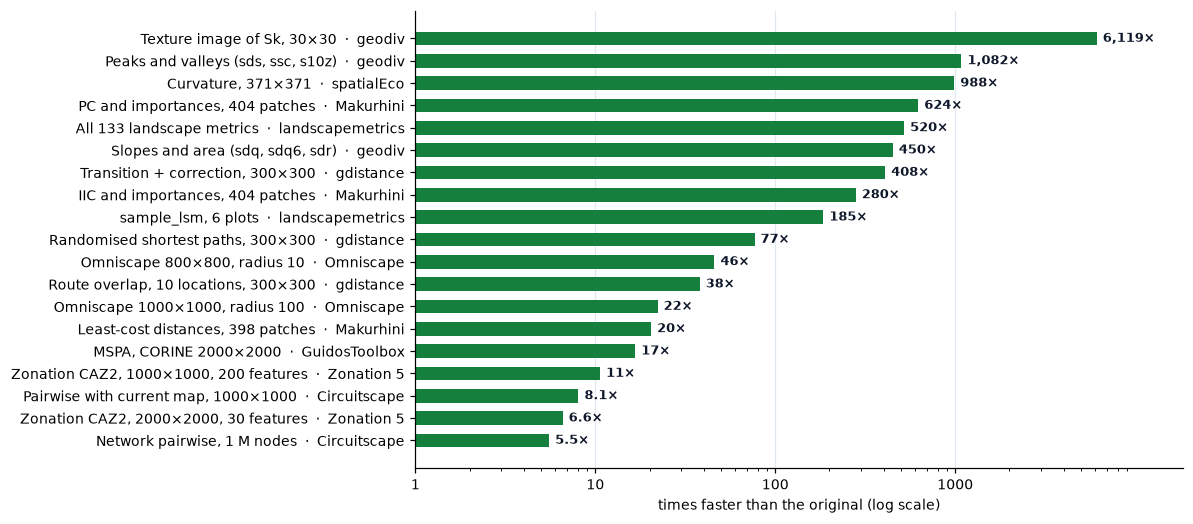
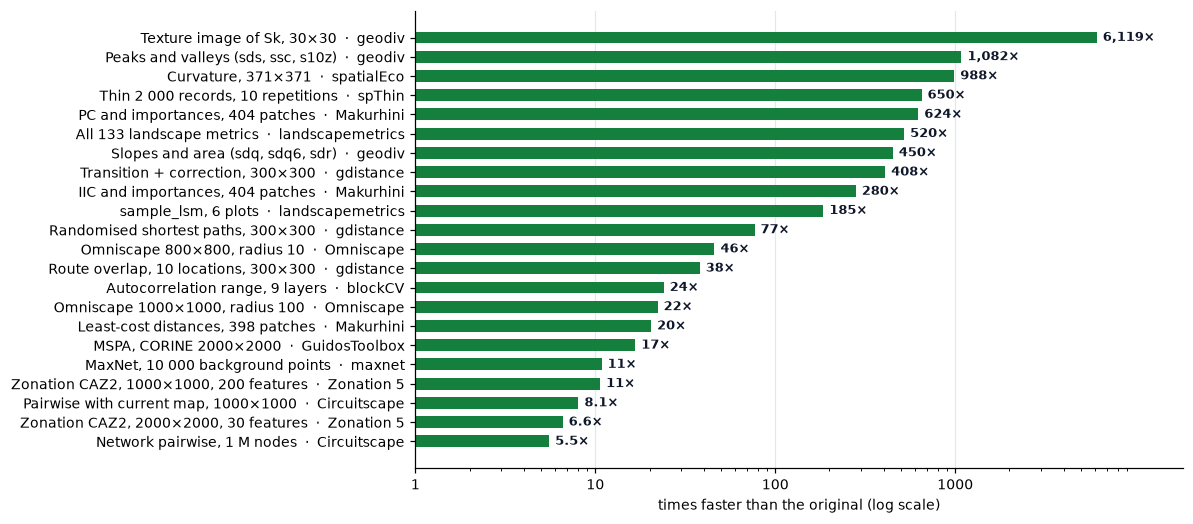
docs(benchmarks): species distributions against the R packages
tools/benchmark_sdm.py + tools/sdm_benchmark.R time 11 tasks against
CoordinateCleaner, spThin, usdm, dismo, blockCV, predicts, ecospat and
maxnet (6-650x); accuracy rows and the corrected reference errors on the
benchmarks page; three tasks in the speed-up figure.

Changed region(s): [[0.0, 0.0611, 0.9614, 0.855]]

diff --git a/tools/benchmark_sdm.py b/tools/benchmark_sdm.py
@@ -1,0 +1,157 @@
+# SPDX-License-Identifier: GPL-3.0-or-later
+"""Time ls.sdm against the R packages it reproduces (the tasks of tools/sdm_benchmark.R).
+
+Usage::
+
+    python tools/benchmark_sdm.py [--reps N] [--cpus 0-11] [--no-r]
+
+Writes the inputs (synthetic records over the example climate, the Bradypus
+presences with 10 000 background points, predictions to evaluate) to
+``build/benchmark_sdm`` and prints a Markdown table: each task's best time in
+R and in Landschaft (default threads, best of ``reps``). Needs Rscript and the
+library of ``tools/make_reference_sdm.py``.
+"""
+
+from __future__ import annotations
+
+import argparse
+import subprocess
+import sys
+import time
+import warnings
+from pathlib import Path
+
+import numpy as np
+import pandas as pd
+
+ROOT = Path(__file__).resolve().parents[1]
+sys.path.insert(0, str(ROOT / "tests"))
+sys.path.insert(0, str(ROOT / "tools"))
+
+import landschaft as ls  # noqa: E402
+import lsm_reference  # noqa: E402
+import make_reference_sdm  # noqa: E402
+
+LABELS = {
+    "clean records": ("Clean 5 000 records: capitals, centroids, equal, GBIF, institutions, outliers, zeros",
+                      "CoordinateCleaner `clean_coordinates`"),
+    "thin": ("Thin 2 000 records at 10 km, 10 repetitions", "spThin `thin.algorithm`"),
+    "vif selection": ("VIF selection, 9 layers", "usdm `vifstep`"),
+    "background": ("10 000 background points", "dismo `randomPoints`"),
+    "spatial blocks": ("Hexagonal blocks of 500 km, 10 116 points, 100 iterations", "blockCV `cv_spatial`"),
+    "spatial clusters": ("k-means folds, 10 116 points, 25 starts", "blockCV `cv_cluster`"),
+    "autocorrelation range": ("Autocorrelation range, 9 layers, 5 000 cells each", "blockCV `cv_spatial_autocor`"),
+    "evaluate": ("Evaluate 1 000 presences against 10 000 background points", "predicts `pa_evaluate`"),
+    "boyce": ("Boyce index, the same predictions", "ecospat `ecospat.boyce`"),
+    "mess": ("MESS, 9 layers, 10 116 reference points", "predicts `mess`"),
+    "maxnet": ("MaxNet, 116 presences and 10 000 background points, 9 predictors", "maxnet `maxnet`"),
+}
+
+
+def inputs(work: Path):
+    """Write the inputs for R and return them for Landschaft."""
+    rng = np.random.default_rng(1)
+    env = ls.load_raster(ls.sdm.example_data("bioclim"))
+    occ = ls.load_table(ls.sdm.example_data("bradypus"))
+    cells = np.flatnonzero(~np.isnan(env.values[0]).ravel())
+    from landschaft.sdm._background import _cell_centres
+
+    pick = rng.choice(cells, 5000)
+    x, y = _cell_centres(env, pick)
+    records = pd.DataFrame({"species": rng.choice([f"sp{i}" for i in range(20)], 5000),
+                            "decimalLongitude": x + rng.uniform(-0.25, 0.25, 5000),
+                            "decimalLatitude": y + rng.uniform(-0.25, 0.25, 5000)})
+    centres = rng.uniform([-70, -25], [-45, 0], (40, 2))
+    t = centres[rng.integers(0, 40, 2000)] + rng.normal(0, 0.5, (2000, 2))
+    thin = pd.DataFrame({"lon": t[:, 0], "lat": t[:, 1]})
+    bg = ls.sdm.background(env, 10_000, occ=occ, seed=1)
+    data = ls.sdm.dataset(occ, bg, env)
+    pts = pd.DataFrame({"lon": data.coords.geometry.x, "lat": data.coords.geometry.y, "occ": data.y.astype(float)})
+    p = np.round(rng.beta(4, 1.5, 1000), 4)
+    a = np.round(rng.uniform(0, 1, 10_000), 4)
+    ev = pd.DataFrame({"pred": np.concatenate([p, a]), "y": [1] * 1000 + [0] * 10_000})
+    mx = data.X.copy()
+    mx["y"] = data.y
+    work.mkdir(parents=True, exist_ok=True)
+    for name, df in [("records", records), ("thin", thin), ("points", pts), ("evaluation", ev), ("maxnet", mx)]:
+        df.to_csv(work / f"{name}.csv", index=False, float_format="%.17g")
+    return env, occ, records, thin, data, p, a
+
+
+def tasks(env, occ, records, thin, data, p, a) -> dict:
+    sdm = ls.sdm
+    pts = data.coords.copy()
+    pts["occ"] = data.y.astype(float)
+    off = dict(seas=False, urban=False, countries=False, duplicates=False, aohi=False)
+    return {
+        "clean records": lambda: sdm.clean_occurrences(records, action="flag", **off),
+        "thin": lambda: sdm.thin(thin, 10_000, reps=10, seed=1),
+        "vif selection": lambda: sdm.select_predictors(env, vif=10, seed=1),
+        "background": lambda: sdm.background(env, 10_000, occ=occ, seed=1),
+        "spatial blocks": lambda: sdm.spatial_blocks(pts, column="occ", size=500_000, k=5, iteration=100, seed=1),
+        "spatial clusters": lambda: sdm.spatial_clusters(pts, 5, seed=1),
+        "autocorrelation range": lambda: sdm.autocorrelation_range(env, n=5000, seed=1),
+        "evaluate": lambda: sdm.evaluate(p, a),
+        "boyce": lambda: sdm.boyce(p, np.concatenate([a, p])),
+        "mess": lambda: sdm.mess(data, env),
+        "maxnet": lambda: sdm.MaxNet().fit(data.X, data.y),
+    }
+
+
+def best(f, reps: int) -> float:
+    f()  # warm up (and the first download of the reference data)
+    times = []
+    for _ in range(reps):
+        t = time.perf_counter()
+        f()
+        times.append(time.perf_counter() - t)
+    return min(times)
+
+
+def run_r(work: Path, reps: int) -> dict:
+    rscript = lsm_reference.find_rscript()
+    out = subprocess.run([str(rscript), str(ROOT / "tools" / "sdm_benchmark.R"), str(work),
+                          str(ls.sdm.example_data("bioclim")), str(reps)],
+                         capture_output=True, text=True, check=True, env=make_reference_sdm.r_environment())
+    res = {}
+    for line in out.stdout.splitlines():
+        if "\t" in line:
+            name, t = line.rsplit("\t", 1)
+            res[name] = float(t)
+    return res
+
+
+def fmt(t: float | None) -> str:
+    if t is None:
+        return "—"
+    return f"{t:.2f} s" if t >= 1 else f"{t * 1000:.1f} ms" if t < 0.1 else f"{t * 1000:.0f} ms"
+
+
+def main() -> None:
+    ap = argparse.ArgumentParser(description=__doc__.split("\n")[0])
+    ap.add_argument("--reps", type=int, default=5)
+    ap.add_argument("--r-reps", type=int, default=3)
+    ap.add_argument("--cpus", default=None, help="processors to run on, as 0-11 or 0,2,4")
+    ap.add_argument("--no-r", action="store_true")
+    args = ap.parse_args()
+    if args.cpus:
+        import psutil
+
+        cpus = [int(c) for part in args.cpus.split(",") for c in (
+            range(int(part.split("-")[0]), int(part.split("-")[1]) + 1) if "-" in part else [part])]
+        psutil.Process().cpu_affinity(cpus)  # Rscript inherits it
+    work = ROOT / "build" / "benchmark_sdm"
+    warnings.simplefilter("ignore")
+    values = inputs(work)
+    ours = {name: best(f, args.reps) for name, f in tasks(*values).items()}
+    theirs = {} if args.no_r else run_r(work, args.r_reps)
+    print("| Task | R | Landschaft | Speed-up |")
+    print("|---|---|---|---|")
+    for name, (label, ref) in LABELS.items():
+        r, o = theirs.get(name), ours[name]
+        speed = f"{r / o:.0f}×" if r else "—"
+        print(f"| {label} ({ref}) | {fmt(r)} | {fmt(o)} | {speed} |")
+
+
+if __name__ == "__main__":
+    main()

diff --git a/tools/make_doc_figures.py b/tools/make_doc_figures.py
@@ -381,6 +381,9 @@ BENCHMARKS = [
     ("Curvature, 371×371", "spatialEco", 1.58, 0.0016),
     ("Zonation CAZ2, 2000×2000, 30 features", "Zonation 5", 48.0, 7.29),
     ("Zonation CAZ2, 1000×1000, 200 features", "Zonation 5", 33.6, 3.16),
+    ("Thin 2 000 records, 10 repetitions", "spThin", 0.91, 0.0014),
+    ("Autocorrelation range, 9 layers", "blockCV", 17.5, 0.73),
+    ("MaxNet, 10 000 background points", "maxnet", 3.25, 0.30),
 ]
 
 

diff --git a/docs/benchmarks.md b/docs/benchmarks.md
@@ -236,6 +236,47 @@ times: z5 gains 1.7 to 3 times from its 12 threads, Landschaft 4.7 to 6.3. Memor
 cell with data during the ranking, plus 1 to 2 bytes per value that is not
 zero; `storage=` puts the large arrays in memory-mapped files.
 
+### Species distributions
+
+Against the R packages each step reproduces (R 4.4.2, terra 1.9-50):
+CoordinateCleaner 3.0.1, spThin 0.2.0, usdm 2.1-7, dismo 1.3-16, blockCV
+3.2-0, predicts 0.1-19, ecospat 4.1.3 and maxnet 0.1.4 with glmnet 4.1-10.
+The inputs are the example climate (9 bioclimatic layers, 192 × 186 cells of
+0.5°), the *Bradypus* records with 10 000 background points, 5 000 synthetic
+records over the same area and 2 000 clustered ones. Measured with
+`tools/benchmark_sdm.py` (version 1.0) on the performance cores: the best of
+3 runs in R (fast tasks repeated to 0.5 s), of 5 in Landschaft with the
+default threads. Every result is the same as R's, the random steps included
+(same seed), except where the notes on accuracy below say otherwise.
+
+| Task | R | Landschaft | Since |
+|---|---|---|---|
+| Clean 5 000 records: capitals, centroids, equal, GBIF, institutions, outliers, zeros (CoordinateCleaner) | 1.99 s | 0.16 s | 1.0 |
+| Thin 2 000 records at 10 km, 10 repetitions (spThin) | 0.91 s | 1.4 ms | 1.0 |
+| VIF selection, 9 layers (usdm `vifstep`) | 0.17 s | 16 ms | 1.0 |
+| 10 000 background points (dismo `randomPoints`) | 0.43 s | 12 ms | 1.0 |
+| Hexagonal blocks of 500 km, 10 116 points, 100 iterations (blockCV `cv_spatial`) | 1.77 s | 53 ms | 1.0 |
+| k-means folds, 10 116 points, 25 starts (blockCV `cv_cluster`) | 93 ms | 14 ms | 1.0 |
+| Autocorrelation range, 9 layers, 5 000 cells each (blockCV `cv_spatial_autocor`) | 17.5 s | 0.73 s | 1.0 |
+| Evaluate 1 000 presences against 10 000 background points (predicts `pa_evaluate`) | 0.19 s | 8.3 ms | 1.0 |
+| Boyce index, the same predictions (ecospat) | 9.8 ms | 1.6 ms | 1.0 |
+| MESS, 9 layers, 10 116 reference points (predicts) | 0.75 s | 19 ms | 1.0 |
+| MaxNet, 116 presences and 10 000 background points, 9 predictors (maxnet) | 3.25 s | 0.30 s | 1.0 |
+
+The largest gains are where R works on whole matrices: spThin computes the
+distance between every pair of records and rescans them after each removal
+(Landschaft keeps only the neighbours, in a grid over the sphere, and the
+counts in a tree: a million records take seconds, where R runs out of
+memory), and blockCV's blocks and predicts' evaluation go through data frames
+row by row. MaxNet keeps glmnet's arithmetic and order of operations, so the
+gain comes from screening (most gradient checks are settled by a bound,
+without the exact dot product) and from parallel work around the coordinate
+descent, which itself stays serial; with 20 predictors and hinge features
+(10 000 background points) it fits in 0.47 s against R's 6.4 s. Weighted
+sampling without replacement, which R does in time proportional to the cells
+times the draws, runs in closed form over runs of equal weights (1 million
+cells and 30 000 draws: 0.24 s against 16-20 s with R's algorithm).
+
 ### Zonal statistics and extraction
 
 Not a reproduction of another tool: the functions that read a raster in zones
@@ -329,6 +370,11 @@ raster read in strips), and only that is reprojected and encoded.
 | Surface metrics: amplitude parameters (`sa`, `sq`, `ssk`, `sku`, `sv`, `sph`, `smean`), trend surfaces of order 0-3 and the choice of the best one, slopes and developed area (`sdq`, `sdq6`, `sdr`), peaks, valleys, `sds`, `ssc`, `s10z`, the bearing area curve and its parameters (`sdc`, `sbi`, `svi`, `sci`, `sk`, `spk`, `svk`), autocorrelation, correlation lengths, texture direction and wavelength, fractal dimension, texture images | geodiv 1.1.1 (R 4.4.2, terra 1.9.50, spatial 7.3-17), and where geodiv errs geodiv with its errors corrected (`tools/surface_fixed.R`): 70 reference cases, projected and longitude/latitude, among them geodiv's example rasters, NA cells, non-square cells and ties | identical bits |
 | Terrain indices: slope, aspect, tpi, tri, vrm, srr, dissection, curvature, spherical standard deviation, hsp, trasp, hli | spatialEco 2.0-5 and terra 1.9-50 (R 4.4.2), and where spatialEco errs spatialEco with its errors corrected (`tools/surface_fixed.R`): 3 DEMs (square and rectangular cells, missing cells, longitude/latitude) | identical bits; focal means (tpi, hsp, srr, vrm, spherical standard deviation, Bolstad's curvature) within 1e-12 of summing each window (compensated prefix sums), 1e-11 of terra's running sums; on longitude/latitude slope and aspect within 1e-12 |
 | Spatial prioritization: the ranking (8 rules, weights and weight groups, output groups, thresholds, zero modes, value extraction, costs, hierarchic masks, analysis areas, smoothing, 8 and 16 bits), condition, retention, pre-processing maps, transformed layers, connectivity transforms, post-processing, impact assessment | Zonation 5 v2.4 (`z5.exe`, `z5_16bit.exe`, on one thread): 64 reference projects, and the timing cases below | identical rank maps and iterations; curve, statistics, post-processing and impact files digit for digit |
+| Species distributions: occurrence cleaning (all 13 tests, records on circle vertices, the antimeridian and poles), thinning, one record per cell | CoordinateCleaner 3.0.1 (its errors corrected: `tools/cc_fixed.R`), spThin 0.2.0, terra 1.9-50: 14 reference cases | identical flags and kept records; the circles' vertices identical (GeographicLib 2.7 and 1.52 with mingw's x87 maths) |
+| Species distributions: predictor selection, background points, spatial blocks and clusters, ENMeval partitions | usdm 2.1-7, dismo 1.3-16, blockCV 3.2-0 (its own k-means: R's `kmeans`, 48 cases), ENMeval 2.0.5.2: 53 reference cases with R's generator | identical bits, random steps included |
+| Species distributions: evaluation, Boyce index, omission rates, MESS, MOP | predicts 0.1-19, ecospat 4.1.3 (its errors corrected: `tools/ecospat_fixed.R`), ENMeval, mop 0.1.4: 16 reference cases | identical bits; the p-value of the correlation to 1e-9 (R's `pt`) |
+| Species distributions: Mahalanobis distances (MOP, ExDet), autocorrelation range | mop, dsmextra 1.1.6 (its covariate index corrected), blockCV `cv_spatial_autocor` (automap, gstat 2.1-6) | 1e-9 (R inverts the covariance with LAPACK); variograms identical, fitted ranges to 1e-6 |
+| MaxNet | maxnet 0.1.4 with glmnet 4.1-10: 13 fits (Bradypus and synthetic, every feature class, regularisation multipliers, factors) | identical bits: coefficients, lambda, entropy and the four output types, on Windows and Linux |
 | Neutral landscape models: random, percolation, gradients, midpoint displacement, fractional Brownian motion, Gaussian fields, Poisson line and Voronoi mosaics, random, neighbourhood and rectangular clusters, curds, classification | NLMR 1.4.0 (R 4.4.2) with the same seeds; R's generator and the libstdc++ distributions of NLMR's C++ code against R and the Rtools compiler | identical bits |
 
 The default solver of Omniscape and Circuitscape (conjugate gradients with an
@@ -371,6 +417,14 @@ its code:
     - **Zonation 5 on several threads** adds up the layers per thread, and its
       results can differ from its run on one thread; Landschaft's do not
       depend on the threads and equal z5's on one thread.
+    - **Species distributions** keep the R packages' results except where
+      they err (each case listed in IDEAS.md and in the functions' notes).
+      Three of the corrections change values people compare with R: the
+      continuous Boyce index drops ecospat's "+1" on the last window (which
+      made the index depend on the scale of the predictions), country
+      checks use Natural Earth's `iso_a3_eh` (with `iso_a3`, France and
+      Norway are "-99"), and MOP's Mahalanobis distance uses the
+      reference's covariance (mop used that of the cells tested).
     - **Off Windows**, the arctangent of the slopes of `surface.terrain` is
       the C library's, as terra's is on Windows: R takes it from Windows'
       UCRT, whose code is not public, and other C libraries (glibc) differ
@@ -405,3 +459,6 @@ originals, and `python tools/benchmark.py --exe <mspa executable>` repeats
 the MSPA timings. `tools/make_reference_prioritize.py` and
 `tools/benchmark_prioritize.py` look for Zonation 5's `z5.exe` and
 `z5_16bit.exe` in `LANDSCHAFT_Z5_DIR`.
+`tools/make_reference_sdm.py` and `tools/benchmark_sdm.py` use R with the
+packages listed above in `LANDSCHAFT_SDM_R_LIBS` (default
+`%LOCALAPPDATA%/R/landschaft-sdm-lib`).
